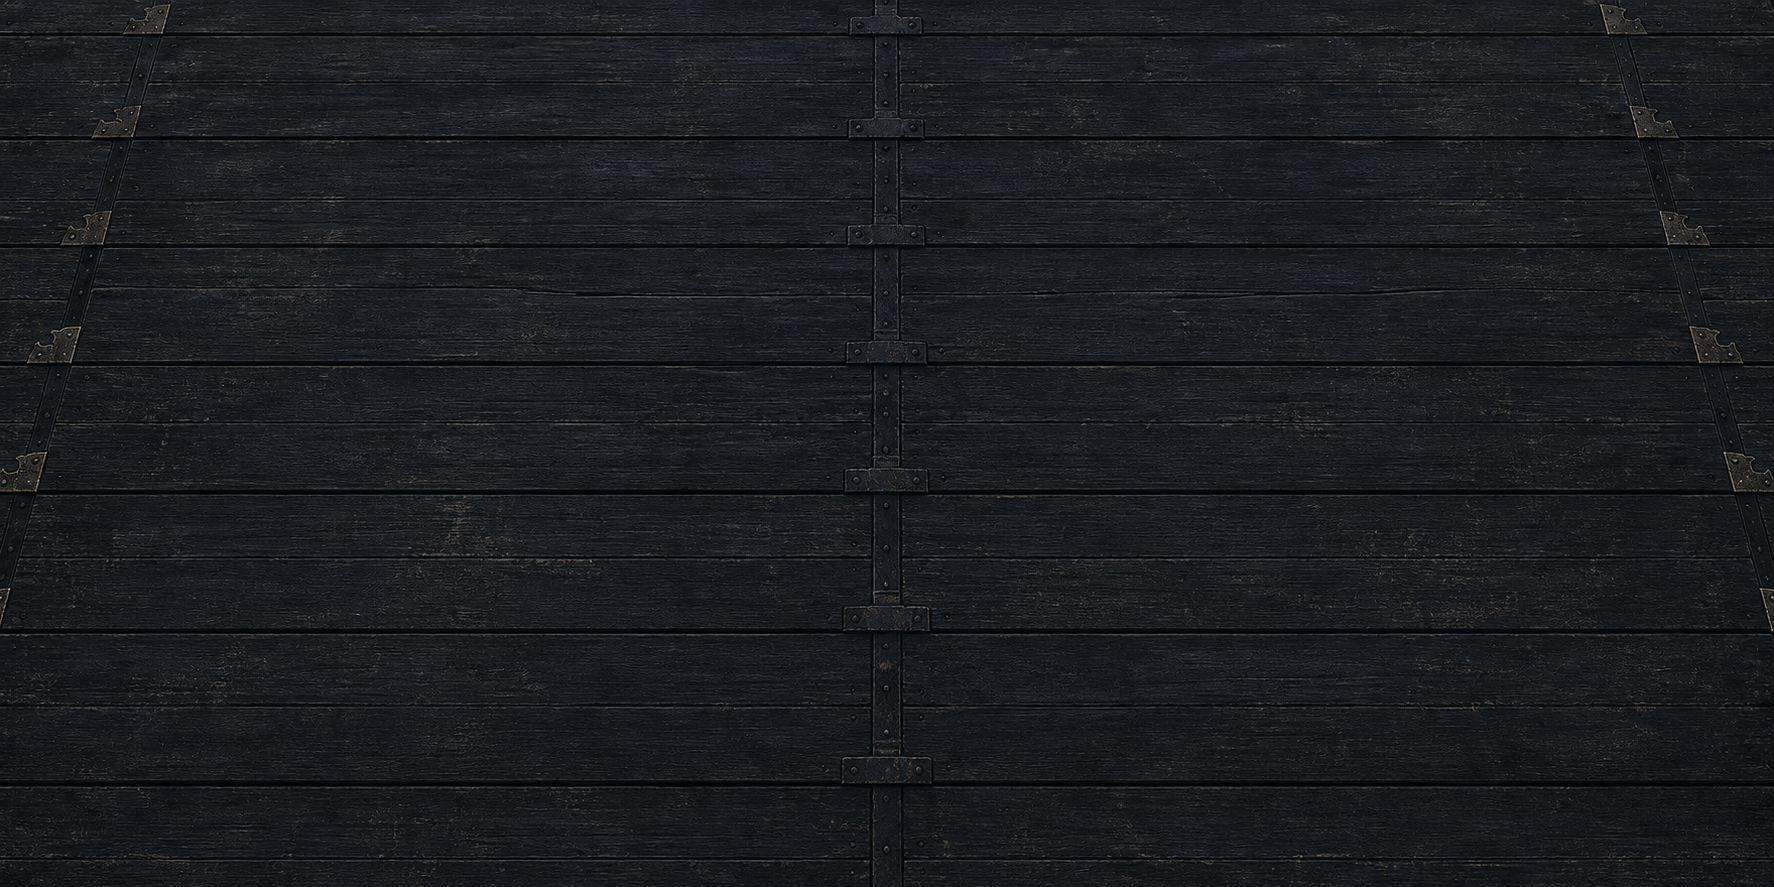
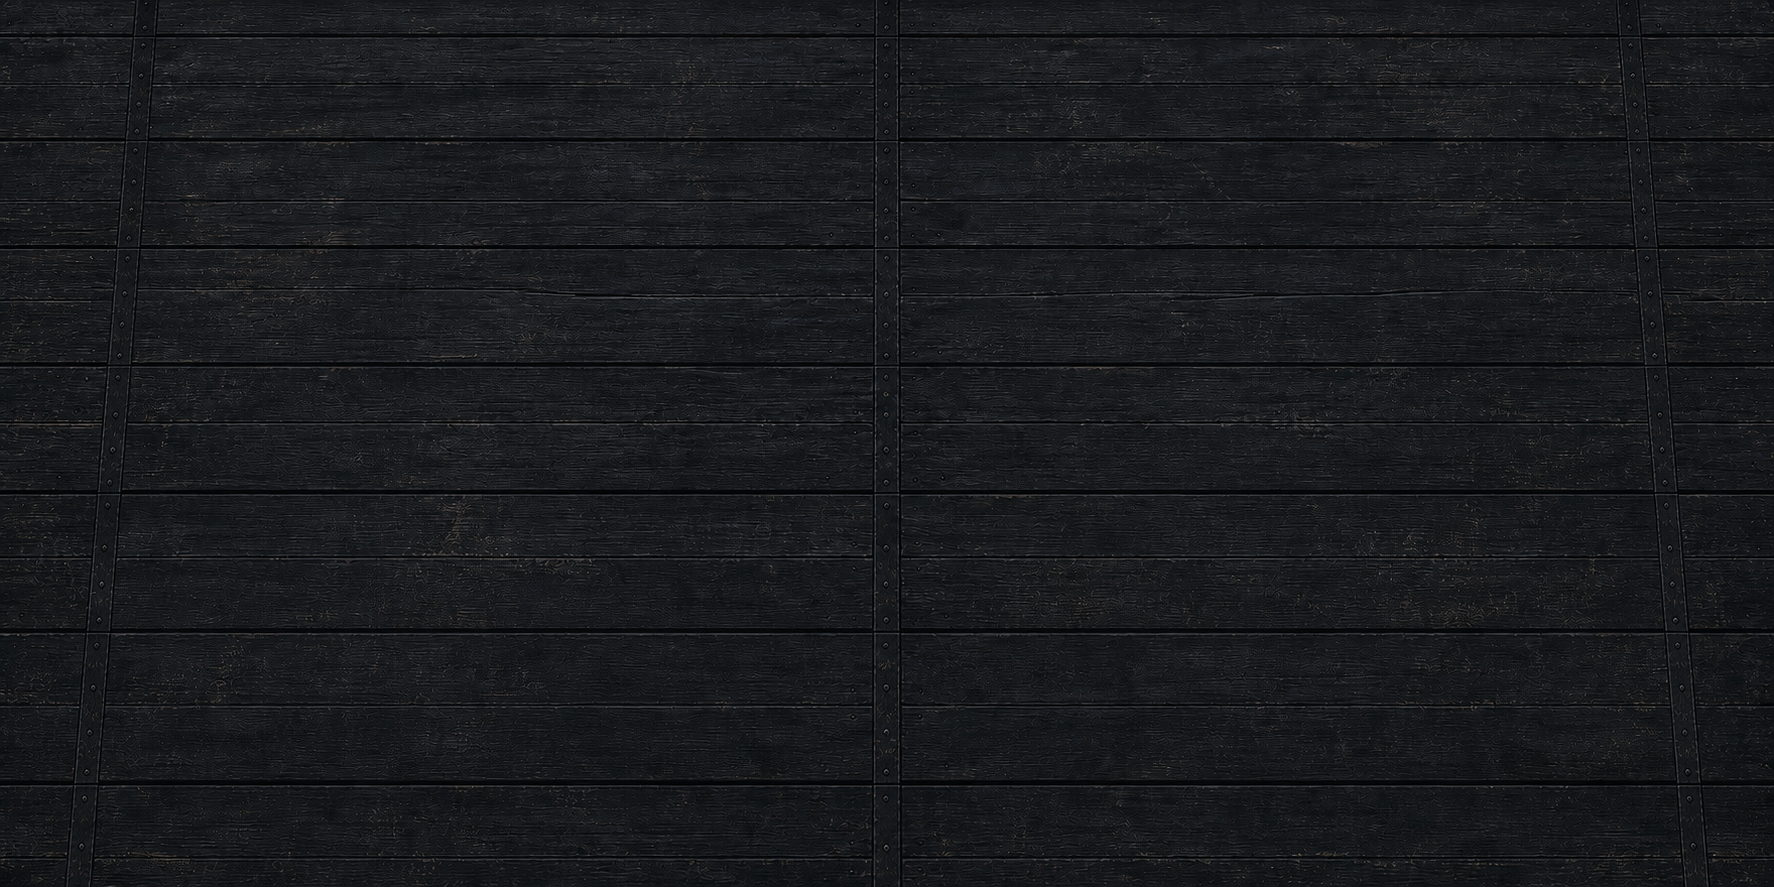
feat: add combat effect layer rendering, update stage 6 backdrop, and refactor weapon rendering pipeline

diff --git a/js/stage.js b/js/stage.js
@@ -244,6 +244,8 @@ export class Stage {
             this.stage6RoofRidgeImage.src = 'images/stage6_roof_ridge_backdrop.png?v=20260714_zone1';
             this.stage6FinalTerraceImage = new Image();
             this.stage6FinalTerraceImage.src = 'images/stage6_final_terrace_backdrop.png?v=20260714_zone1';
+            this.stage6BossPavilionImage = new Image();
+            this.stage6BossPavilionImage.src = 'images/stage6_boss_pavilion_backdrop.png?v=20260715_boss1';
             this.stage6CornerTurretImage = new Image();
             this.stage6CornerTurretImage.src = 'images/stage6_corner_turret_transition.png?v=20260714_zone1';
             this.stage6RoofGateImage = new Image();
@@ -253,11 +255,11 @@ export class Stage {
             this.stage6GroundImage = new Image();
             this.stage6GroundImage.src = 'images/stage6_ground_lacquer_neutral.png?v=20260714_neutral1';
             this.stage6UpperGalleryGroundImage = new Image();
-            this.stage6UpperGalleryGroundImage.src = 'images/stage6_ground_upper_gallery.png?v=20260714_zone1';
+            this.stage6UpperGalleryGroundImage.src = 'images/stage6_ground_upper_gallery.png?v=20260715_parallel1';
             this.stage6RoofRidgeGroundImage = new Image();
             this.stage6RoofRidgeGroundImage.src = 'images/stage6_ground_roof_ridge.png?v=20260714_zone1';
             this.stage6FinalTerraceGroundImage = new Image();
-            this.stage6FinalTerraceGroundImage.src = 'images/stage6_ground_final_terrace.png?v=20260714_zone1';
+            this.stage6FinalTerraceGroundImage.src = 'images/stage6_ground_final_terrace.png?v=20260715_seam1';
             this.stage6GroundThresholdImage = new Image();
             this.stage6GroundThresholdImage.src = 'images/stage6_ground_threshold_strip.png?v=20260714_zone1';
         }
@@ -3448,6 +3450,18 @@ export class Stage {
             filter,
             bottomOffset: Math.round(drawHeight * 0.16)
         });
+
+        const bossPavilion = this.stage6BossPavilionImage;
+        if (bossPavilion?.complete && bossPavilion.naturalWidth > 0 && bossPavilion.naturalHeight > 0) {
+            const bossPavilionWidth = Math.ceil(drawHeight * (bossPavilion.naturalWidth / bossPavilion.naturalHeight));
+            this.renderStage6FixedBackdrop(
+                ctx,
+                bossPavilion,
+                this.maxProgress - bossPavilionWidth * 0.5,
+                progress,
+                { drawHeight, bottomY, filter }
+            );
+        }
     }
 
     renderStage1BambooImageBackdrop(ctx, progress) {
@@ -3933,8 +3947,7 @@ export class Stage {
         worldEnd,
         horizonY,
         bottomY,
-        filter,
-        mirrorRepeat = true
+        filter
     }) {
         if (!image?.complete || image.naturalWidth <= 0 || image.naturalHeight <= 0) return false;
 
@@ -3961,15 +3974,7 @@ export class Stage {
 
         for (let tileIndex = firstTile; tileIndex <= lastTile; tileIndex++) {
             const x = Math.round(worldStart + tileIndex * drawW - renderProgress);
-            if (mirrorRepeat && Math.abs(tileIndex) % 2 === 1) {
-                ctx.save();
-                ctx.translate(x + drawW + 2, y);
-                ctx.scale(-1, 1);
-                ctx.drawImage(image, 0, 0, drawW + 2, drawH);
-                ctx.restore();
-            } else {
-                ctx.drawImage(image, x, y, drawW + 2, drawH);
-            }
+            ctx.drawImage(image, x, y, drawW + 2, drawH);
         }
 
         ctx.filter = 'none';

diff --git a/js/game.js b/js/game.js
@@ -5188,53 +5188,8 @@ class Game {
             });
             ctx.restore();
 
-            const shogunFrame = typeof player.getShogunRenderModelFrame === 'function'
-                ? player.getShogunRenderModelFrame()
-                : null;
-            const renderScaledTrail = (pivotX, pivotY, draw) => {
-                ctx.save();
-                ctx.translate(shogunFrame.renderPivotX, shogunFrame.renderPivotY);
-                ctx.scale(shogunFrame.scale, shogunFrame.scale);
-                ctx.translate(-pivotX, -pivotY);
-                draw();
-                ctx.restore();
-            };
-
-            // 本体の通常コンボ剣筋・二刀軌跡は忍者・将軍とも同じ経路で描く（相対共通化）。
-            // 将軍は _projectShogunTrailPoseToWorldScale でサンプリング時にワールド座標化済みのため、
-            // canvas変換(renderScaledTrail)は不要。physicalScale で線幅のみスケールする。
-            const trailPhysicalScale = (shogunFrame && shogunFrame.scale > 1)
-                ? shogunFrame.scale
-                : 1;
-            if (typeof player.renderComboSlashTrail === 'function') {
-                player.renderComboSlashTrail(ctx, trailPhysicalScale > 1
-                    ? { physicalScale: trailPhysicalScale }
-                    : {});
-            }
-            if (typeof player.renderDualBladeSlashTrails === 'function') {
-                player.renderDualBladeSlashTrails(ctx, trailPhysicalScale > 1
-                    ? { physicalScale: trailPhysicalScale }
-                    : {});
-            }
-
-            if (
-                player.currentSubWeapon &&
-                player.subWeaponRenderedInModel &&
-                typeof player.currentSubWeapon.renderWorldEffects === 'function'
-            ) {
-                ctx.save();
-                if (playerAlpha < 1.0) ctx.globalAlpha *= playerAlpha;
-                player.currentSubWeapon.renderWorldEffects(ctx, player);
-                ctx.restore();
-            } else if (
-                player.currentSubWeapon &&
-                !player.subWeaponRenderedInModel &&
-                typeof player.currentSubWeapon.render === 'function'
-            ) {
-                ctx.save();
-                if (playerAlpha < 1.0) ctx.globalAlpha *= playerAlpha;
-                player.currentSubWeapon.render(ctx, player);
-                ctx.restore();
+            if (typeof player.renderCombatEffectLayer === 'function') {
+                player.renderCombatEffectLayer(ctx, { worldEffectAlpha: playerAlpha });
             }
 
             // 分身（レベル2以下を含む）のサブウェポンエフェクト（大太刀着地時の地面衝撃波など）を描画

diff --git a/js/boss.js b/js/boss.js
@@ -1283,6 +1283,17 @@ function hasLiveWeaponPayload(weapon) {
     return hasProjectiles || hasLingeringOdachi || !!weapon.isAttacking;
 }
 
+function renderInactiveBossWeaponPayloads(owner, ctx) {
+    for (const weapon of owner.subWeapons || []) {
+        if (!weapon || weapon === owner.currentSubWeapon || !hasLiveWeaponPayload(weapon)) continue;
+        if (typeof weapon.render === 'function') {
+            weapon.render(ctx, owner);
+        } else if (typeof weapon.renderWorldEffects === 'function') {
+            weapon.renderWorldEffects(ctx, owner);
+        }
+    }
+}
+
 function collectWeaponHitboxes(owner, weapon) {
     if (!owner || !weapon || typeof weapon.getHitbox !== 'function') return [];
     if (weapon !== owner.currentSubWeapon && !hasLiveWeaponPayload(weapon)) return [];
@@ -1653,14 +1664,10 @@ function createShogunBossPlayer(x, _y, _type, groundY) {
             ctx.filter = `brightness(${brightness}%) saturate(${saturation}%)`;
         }
         playerRender(ctx, { skipGlow: true });
-        for (const weapon of this.subWeapons || []) {
-            if (!weapon || typeof weapon.render !== 'function') continue;
-            const hasProjectiles = Array.isArray(weapon.projectiles) && weapon.projectiles.length > 0;
-            const shouldRenderCurrentProjectile = weapon.name === '手裏剣';
-            if (hasProjectiles && (weapon !== this.currentSubWeapon || shouldRenderCurrentProjectile)) {
-                weapon.render(ctx, this);
-            }
+        if (typeof this.renderCombatEffectLayer === 'function') {
+            this.renderCombatEffectLayer(ctx);
         }
+        renderInactiveBossWeaponPayloads(this, ctx);
         ctx.restore();
         ctx.filter = 'none';
     };

diff --git a/js/playerRenderer.js b/js/playerRenderer.js
@@ -30,6 +30,42 @@ export function applyRendererMixin(PlayerClass) {
         return 80;
     };
 
+    PlayerClass.prototype.renderCombatEffectLayer = function(ctx, options = {}) {
+        if (!ctx) return;
+
+        const shogunFrame = typeof this.getShogunRenderModelFrame === 'function'
+            ? this.getShogunRenderModelFrame()
+            : null;
+        const trailPhysicalScale = (shogunFrame && shogunFrame.scale > 1)
+            ? shogunFrame.scale
+            : 1;
+        const trailOptions = trailPhysicalScale > 1
+            ? { physicalScale: trailPhysicalScale }
+            : {};
+
+        if (typeof this.renderComboSlashTrail === 'function') {
+            this.renderComboSlashTrail(ctx, trailOptions);
+        }
+        if (typeof this.renderDualBladeSlashTrails === 'function') {
+            this.renderDualBladeSlashTrails(ctx, trailOptions);
+        }
+
+        const weapon = this.currentSubWeapon;
+        if (!weapon) return;
+
+        ctx.save();
+        const worldEffectAlpha = Number.isFinite(options.worldEffectAlpha)
+            ? Math.max(0, Math.min(1, options.worldEffectAlpha))
+            : 1;
+        ctx.globalAlpha *= worldEffectAlpha;
+        if (this.subWeaponRenderedInModel && typeof weapon.renderWorldEffects === 'function') {
+            weapon.renderWorldEffects(ctx, this);
+        } else if (!this.subWeaponRenderedInModel && typeof weapon.render === 'function') {
+            weapon.render(ctx, this);
+        }
+        ctx.restore();
+    };
+
     PlayerClass.prototype.drawKatana = function(
         ctx,
         x,
